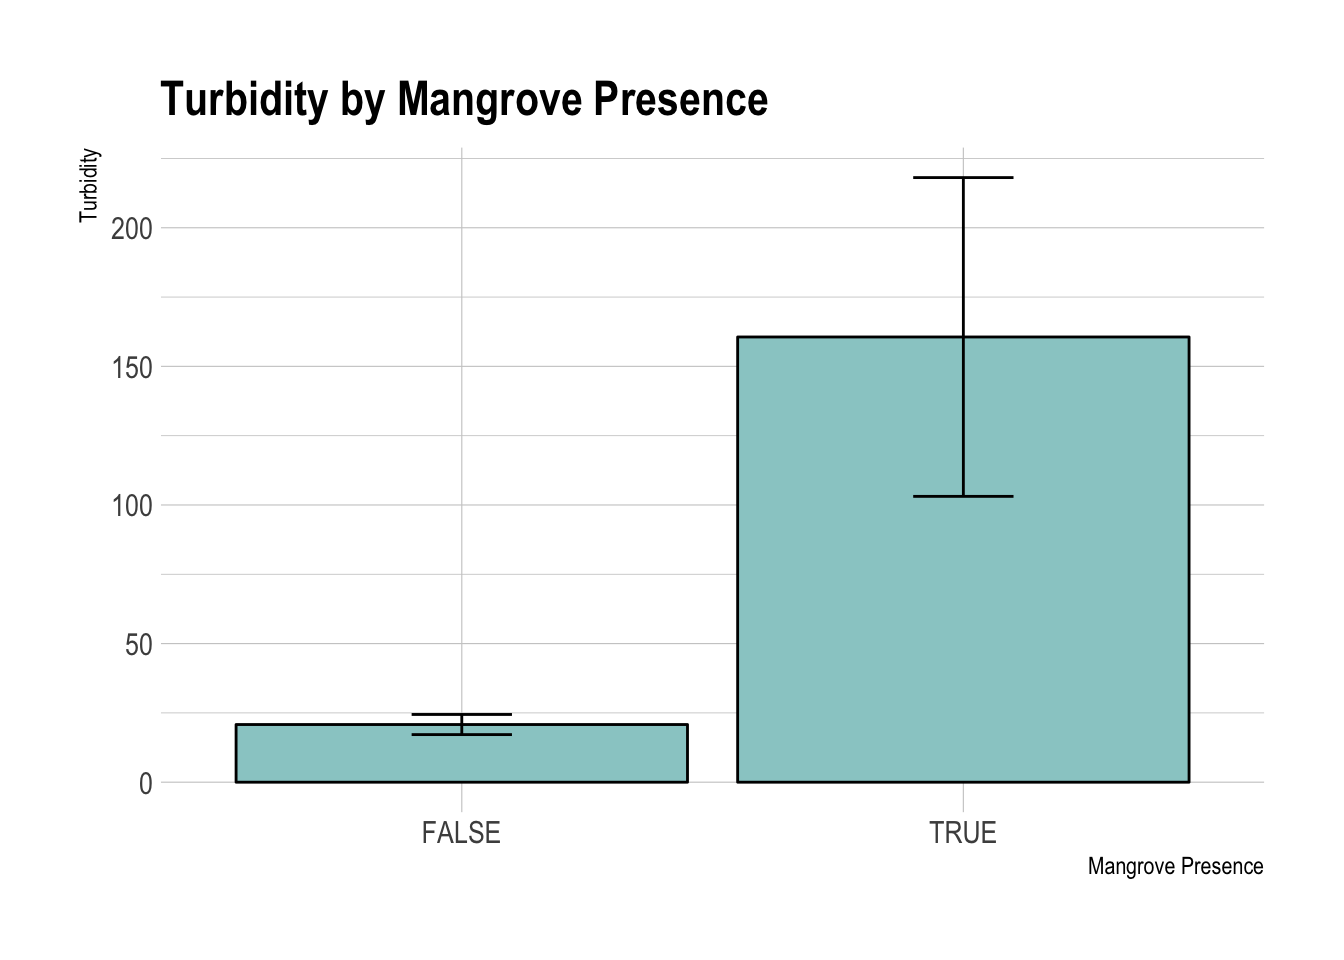
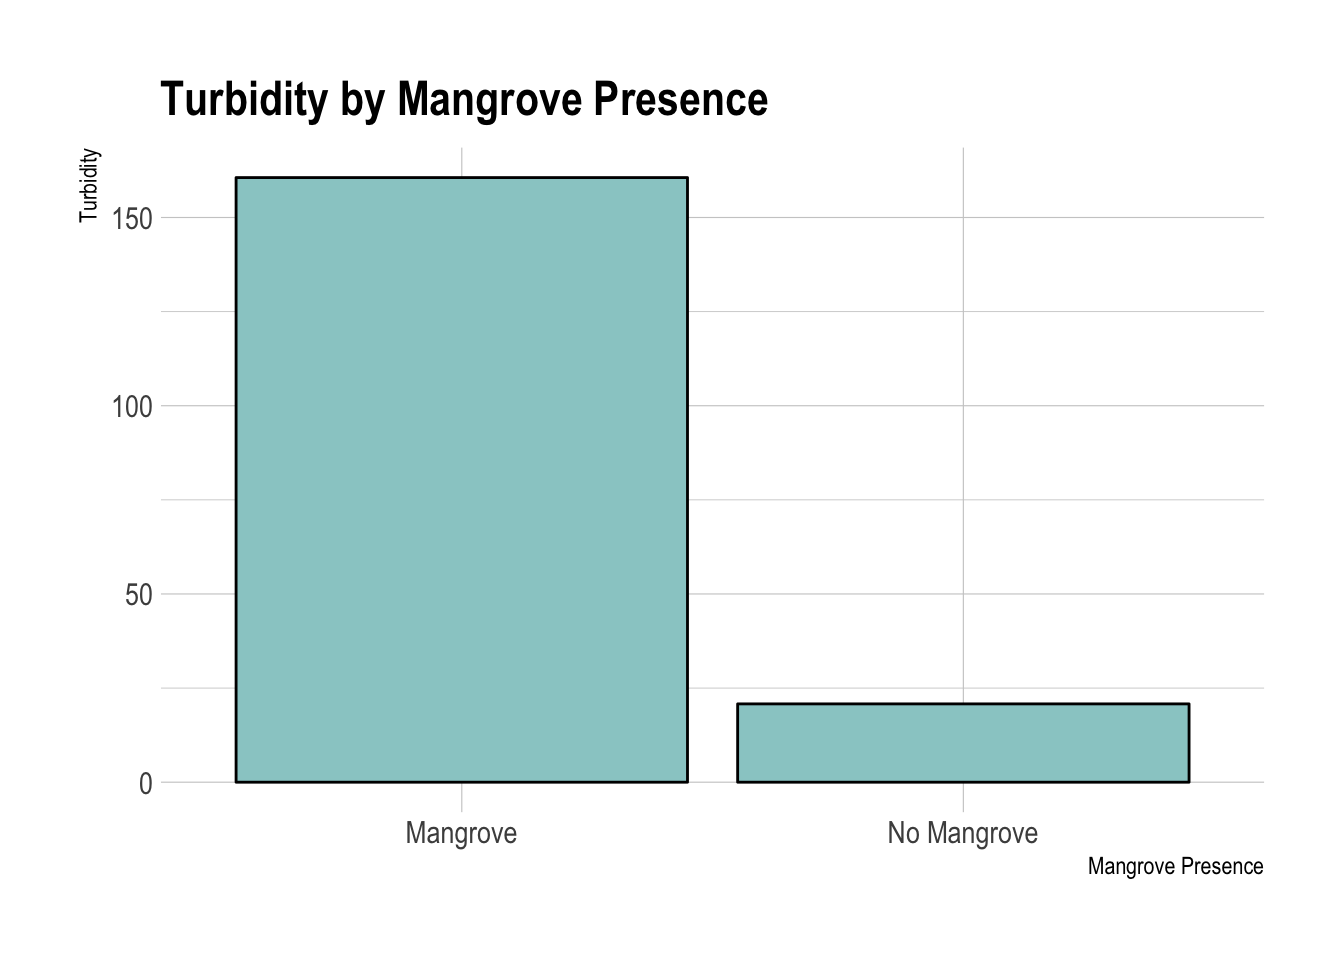
error bars removed, updated mangrove labels

diff --git a/content/post/2019-03-15-heeia.html b/content/post/2019-03-15-heeia.html
@@ -68,6 +68,7 @@ x</code></pre>
 ## 16 2019-03-15    16 TRUE     0.321   6.2      57.5
 ## 17 2019-03-15    17 TRUE     0.565   6.1     366  
 ## 18 2019-03-15    18 TRUE     0.511   6.2     501.</code></pre>
+<pre class="r"><code>x &lt;- x %&gt;% mutate(mangrove, mangrove = if_else(mangrove, &quot;Mangrove&quot;, &quot;No Mangrove&quot;))</code></pre>
 <div id="description-of-mean-dissolved-oxygen-ph-and-turbidity-by-mangrove-presence" class="section level2">
 <h2>Description of Mean Dissolved Oxygen, pH, and Turbidity by Mangrove Presence</h2>
 <pre class="r"><code>obs &lt;- 9
@@ -80,10 +81,10 @@ x %&gt;% group_by(mangrove) %&gt;%
             mean.turbidity = mean(turbidity),
             se.turbidity = sd(turbidity)/sqrt(obs))</code></pre>
 <pre><code>## # A tibble: 2 x 7
-##   mangrove mean.DO  se.DO mean.pH  se.pH mean.turbidity se.turbidity
-##   &lt;lgl&gt;      &lt;dbl&gt;  &lt;dbl&gt;   &lt;dbl&gt;  &lt;dbl&gt;          &lt;dbl&gt;        &lt;dbl&gt;
-## 1 FALSE      0.898 0.0243    6.13 0.0333           20.8         3.63
-## 2 TRUE       0.539 0.0377    6.24 0.0294          161.         57.5</code></pre>
+##   mangrove    mean.DO  se.DO mean.pH  se.pH mean.turbidity se.turbidity
+##   &lt;chr&gt;         &lt;dbl&gt;  &lt;dbl&gt;   &lt;dbl&gt;  &lt;dbl&gt;          &lt;dbl&gt;        &lt;dbl&gt;
+## 1 Mangrove      0.539 0.0377    6.24 0.0294          161.         57.5 
+## 2 No Mangrove   0.898 0.0243    6.13 0.0333           20.8         3.63</code></pre>
 <p>The data do not appear to be normally distributed from looking at these boxplots.</p>
 <pre class="r"><code>ggplot(x, aes(x = mangrove, y = DO)) + geom_boxplot() + theme_ipsum()</code></pre>
 <p><img src="/post/2019-03-15-heeia_files/figure-html/unnamed-chunk-5-1.png" width="672" /></p>
@@ -100,21 +101,21 @@ x %&gt;% group_by(mangrove) %&gt;%
 ##  Welch Two Sample t-test
 ## 
 ## data:  x$DO by x$mangrove
-## t = 8.0141, df = 13.654, p-value = 1.586e-06
+## t = -8.0141, df = 13.654, p-value = 1.586e-06
 ## alternative hypothesis: true difference in means is not equal to 0
 ## 95 percent confidence interval:
-##  0.2628558 0.4555887
+##  -0.4555887 -0.2628558
 ## sample estimates:
-## mean in group FALSE  mean in group TRUE 
-##           0.8981111           0.5388889</code></pre>
+##    mean in group Mangrove mean in group No Mangrove 
+##                 0.5388889                 0.8981111</code></pre>
 <pre class="r"><code>wilcox.test(x$DO ~ x$mangrove)</code></pre>
-<pre><code>## Warning in wilcox.test.default(x = c(0.851, 0.829, 0.92, 0.988, 0.982,
-## 0.988, : cannot compute exact p-value with ties</code></pre>
+<pre><code>## Warning in wilcox.test.default(x = c(0.473, 0.52, 0.582, 0.7, 0.5, 0.678, :
+## cannot compute exact p-value with ties</code></pre>
 <pre><code>## 
 ##  Wilcoxon rank sum test with continuity correction
 ## 
 ## data:  x$DO by x$mangrove
-## W = 81, p-value = 0.0004095
+## W = 0, p-value = 0.0004095
 ## alternative hypothesis: true location shift is not equal to 0</code></pre>
 <pre class="r"><code>x %&gt;% group_by(mangrove) %&gt;% summarize(
   mean.DO = mean(DO), 
@@ -125,9 +126,9 @@ x %&gt;% group_by(mangrove) %&gt;%
            color = &quot;black&quot;,
            fill = &quot;#99cccc&quot;
            ) +
-  geom_errorbar(aes(ymin = mean.DO - se.DO, ymax = mean.DO + se.DO),
-                width = 0.2,
-                position=position_dodge(0.9)) +
+  # geom_errorbar(aes(ymin = mean.DO - se.DO, ymax = mean.DO + se.DO),
+  #               width = 0.2,
+  #               position=position_dodge(0.9)) +
   ggtitle(&quot;Dissolved Oxygen by Mangrove Presence&quot;) +
   xlab(&quot;Mangrove Presence&quot;) +
   ylab(&quot;Dissolved Oxygen (%)&quot;) +
@@ -143,21 +144,21 @@ x %&gt;% group_by(mangrove) %&gt;%
 ##  Welch Two Sample t-test
 ## 
 ## data:  x$pH by x$mangrove
-## t = -2.5, df = 15.754, p-value = 0.02387
+## t = 2.5, df = 15.754, p-value = 0.02387
 ## alternative hypothesis: true difference in means is not equal to 0
 ## 95 percent confidence interval:
-##  -0.20544891 -0.01677331
+##  0.01677331 0.20544891
 ## sample estimates:
-## mean in group FALSE  mean in group TRUE 
-##            6.133333            6.244444</code></pre>
+##    mean in group Mangrove mean in group No Mangrove 
+##                  6.244444                  6.133333</code></pre>
 <pre class="r"><code>wilcox.test(x$pH ~ x$mangrove)</code></pre>
-<pre><code>## Warning in wilcox.test.default(x = c(6.2, 6.2, 6, 6, 6.2, 6.2, 6.2, 6, 6.2:
+<pre><code>## Warning in wilcox.test.default(x = c(6.4, 6.3, 6.3, 6.2, 6.2, 6.3, 6.2, :
 ## cannot compute exact p-value with ties</code></pre>
 <pre><code>## 
 ##  Wilcoxon rank sum test with continuity correction
 ## 
 ## data:  x$pH by x$mangrove
-## W = 18, p-value = 0.03208
+## W = 63, p-value = 0.03208
 ## alternative hypothesis: true location shift is not equal to 0</code></pre>
 <pre class="r"><code>x %&gt;% group_by(mangrove) %&gt;% 
 summarize(
@@ -168,9 +169,9 @@ summarize(
   geom_bar(stat=&#39;identity&#39;,
            color = &quot;black&quot;,
            fill = &quot;#99cccc&quot;) +
-  geom_errorbar(aes(ymin = mean.pH - se.pH, ymax = mean.pH + se.pH),
-                width = 0.2,
-                position=position_dodge(0.9)) +
+  # geom_errorbar(aes(ymin = mean.pH - se.pH, ymax = mean.pH + se.pH),
+  #               width = 0.2,
+  #               position=position_dodge(0.9)) +
   ggtitle(&quot;pH by Mangrove Presence&quot;) +
   xlab(&quot;Mangrove Presence&quot;) +
   ylab(&quot;pH&quot;) +
@@ -185,19 +186,19 @@ summarize(
 ##  Welch Two Sample t-test
 ## 
 ## data:  x$turbidity by x$mangrove
-## t = -2.4267, df = 8.0638, p-value = 0.04119
+## t = 2.4267, df = 8.0638, p-value = 0.04119
 ## alternative hypothesis: true difference in means is not equal to 0
 ## 95 percent confidence interval:
-##  -272.465627   -7.134373
+##    7.134373 272.465627
 ## sample estimates:
-## mean in group FALSE  mean in group TRUE 
-##                20.8               160.6</code></pre>
+##    mean in group Mangrove mean in group No Mangrove 
+##                     160.6                      20.8</code></pre>
 <pre class="r"><code>wilcox.test(x$turbidity ~ x$mangrove)</code></pre>
 <pre><code>## 
 ##  Wilcoxon rank sum test
 ## 
 ## data:  x$turbidity by x$mangrove
-## W = 12, p-value = 0.01061
+## W = 69, p-value = 0.01061
 ## alternative hypothesis: true location shift is not equal to 0</code></pre>
 <pre class="r"><code>x %&gt;% group_by(mangrove) %&gt;% summarize(
   mean.turbidity = mean(turbidity), 
@@ -207,10 +208,10 @@ summarize(
   geom_bar(stat=&#39;identity&#39;,
            color = &quot;black&quot;,
            fill = &quot;#99cccc&quot;) +
-  geom_errorbar(aes(ymin = mean.turbidity - se.turbidity, 
-                    ymax = mean.turbidity + se.turbidity),
-                width = 0.2,
-                position=position_dodge(0.9)) +
+  # geom_errorbar(aes(ymin = mean.turbidity - se.turbidity, 
+  #                   ymax = mean.turbidity + se.turbidity),
+  #               width = 0.2,
+  #               position=position_dodge(0.9)) +
   ggtitle(&quot;Turbidity by Mangrove Presence&quot;) +
   xlab(&quot;Mangrove Presence&quot;) +
   ylab(&quot;Turbidity&quot;) +
@@ -232,8 +233,8 @@ summary(model1)</code></pre>
 ## 
 ## Coefficients:
 ##                                  Estimate Std. Error t value Pr(&gt;|t|)    
-## (Intercept)                       0.87544    0.03343   26.18 2.71e-13 ***
-## x$mangroveTRUE                   -0.35922    0.03343  -10.74 3.81e-08 ***
+## (Intercept)                       0.51622    0.03343   15.44 3.47e-10 ***
+## x$mangroveNo Mangrove             0.35922    0.03343   10.74 3.81e-08 ***
 ## as.factor(x$coll_date)2019-03-09  0.11017    0.04095    2.69   0.0176 *  
 ## as.factor(x$coll_date)2019-03-15 -0.04217    0.04095   -1.03   0.3206    
 ## ---
